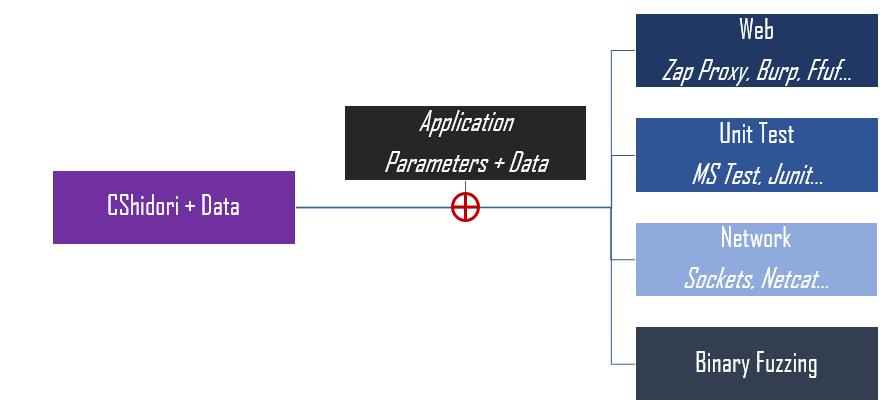
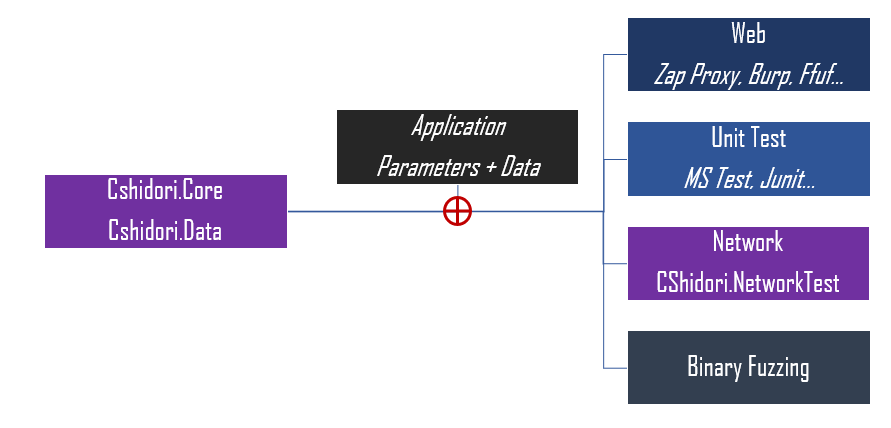
v 5.1
Fuzzer (beta)

Changed region(s): [[0.0303, 0.0311, 1.0, 0.9641], [0.7576, 0.3732, 0.9394, 0.4665]]

diff --git a/NetworkTest/TlsFuzz.cs b/NetworkTest/TlsFuzz.cs
@@ -1,0 +1,86 @@
+using System;
+using System.Collections.Generic;
+using System.Linq;
+using System.Net.Security;
+using System.Net.Sockets;
+using System.Security.Cryptography.X509Certificates;
+using System.Text;
+using System.Threading.Tasks;
+using System.IO;
+using System.Collections.ObjectModel;
+using System.Threading;
+using System.Text.RegularExpressions;
+
+namespace CShidori.NetworkTest
+{
+    public class TlsFuzz
+    {
+        public static async void TlsFuzzAsync(string File, string Ip, string Port, string data)
+        {
+            while (true)
+            {
+                try
+                {
+                    await SslOneReq(File, Ip, Port, data);
+                }
+                catch
+                {
+                    Thread.Sleep(1000);
+                }
+
+            }
+                
+        }
+
+
+        public static async Task SslOneReq(string File, string Ip, string Port, string data)
+            {
+            Guid uuid;
+            TcpClient client = new TcpClient(Ip, int.Parse(Port));
+            var stream = client.GetStream();
+            SslStream sslStream = new SslStream(stream, false, new RemoteCertificateValidationCallback(CertificateValidationCallback));
+            sslStream.AuthenticateAsClient("client", null, System.Security.Authentication.SslProtocols.Tls12, false);
+
+            string req = System.IO.File.ReadAllText(File);
+            string rsp = string.Empty;
+
+            uuid = Guid.NewGuid();
+            Core.Mutation mut = new Core.Mutation(1, req, data);               
+            foreach( string str in mut.Output) // Convert string[] mut.Output to string str
+            {
+                sendMsg(str, sslStream);
+                rsp = readMsg(sslStream, client);
+                int n = 0;
+                while( rsp == string.Empty)
+                {
+                    rsp = readMsg(sslStream, client);                   
+                    if(n >= 1024) { break;  }
+                    n += 1;
+                }
+                //Console.WriteLine("{0}: {1}: {2}",uuid, str, rsp) ;
+                new Core.DataLoggerWriter(uuid, str, rsp);
+
+            }
+            sslStream.Close();
+            client.Close();
+
+        }
+
+
+        public static bool CertificateValidationCallback(object sender, X509Certificate certificate, X509Chain chain, SslPolicyErrors sslPolicyErrors)
+        {
+            return true;
+        }
+
+        public static string readMsg(SslStream sslStream, TcpClient client)
+        {
+            byte[] buffer = new byte[client.ReceiveBufferSize];
+            int bytesRead = sslStream.Read(buffer, 0, client.ReceiveBufferSize);
+            return Encoding.UTF8.GetString(buffer, 0, bytesRead);
+        }
+        public static void sendMsg(string message, SslStream sslStream)
+        {
+            sslStream.Write(Encoding.UTF8.GetBytes(message), 0, Encoding.UTF8.GetBytes(message).Length);
+        }
+    }
+}

diff --git a/NetworkTest/TcpFuzz.cs b/NetworkTest/TcpFuzz.cs
@@ -1,0 +1,79 @@
+using System;
+using System.Collections.Generic;
+using System.Linq;
+using System.Net.Security;
+using System.Net.Sockets;
+using System.Security.Cryptography.X509Certificates;
+using System.Text;
+using System.Threading.Tasks;
+using System.IO;
+using System.Collections.ObjectModel;
+using System.Threading;
+using System.Text.RegularExpressions;
+
+namespace CShidori.NetworkTest
+{
+    internal class TcpFuzz
+    {
+        public static async void TcpFuzzAsync(string File, string Ip, string Port, string data)
+        {
+            while (true)
+            {
+                try
+                {
+                    await SendOneReq(File, Ip, Port, data);
+                }
+                catch
+                {
+                    Thread.Sleep(1000);
+                }
+
+            }
+
+        }
+
+
+        public static async Task SendOneReq(string File, string Ip, string Port, string data)
+        {
+            Guid uuid;
+            TcpClient client = new TcpClient(Ip, int.Parse(Port));
+            var stream = client.GetStream();
+
+            string req = System.IO.File.ReadAllText(File);
+            string rsp = string.Empty;
+
+            uuid = Guid.NewGuid();
+            Core.Mutation mut = new Core.Mutation(1, req, data);
+            foreach (string str in mut.Output) // Convert string[] mut.Output to string str
+            {
+                sendMsg(str, stream);
+                rsp = readMsg(stream);
+                int n = 0;
+                while (true)
+                {
+                    rsp += readMsg(stream);
+                    if (n >= 4096) { break; }
+                    n += 1;
+                }
+                Console.WriteLine("{0}:\n{1}\n---\n{2}", uuid, str, rsp);
+                new Core.DataLoggerWriter(uuid, str, rsp);
+
+            }
+            client.Close();
+
+        }
+
+
+        public static string readMsg(Stream stream)
+        {
+            byte[] buffer = new byte[4096];
+            int bytesRead = stream.Read(buffer, 0, buffer.Length);
+            return Encoding.UTF8.GetString(buffer, 0, bytesRead);
+        }
+        public static void sendMsg(string message, Stream stream)
+        {
+
+            stream.Write(Encoding.UTF8.GetBytes(message), 0, Encoding.UTF8.GetBytes(message).Length);
+        }
+    }
+}

diff --git a/Program.cs b/Program.cs
@@ -39,7 +39,8 @@ namespace CShidori
 
             var rootCommand = new RootCommand{m,i,p, o,d};
 
-            rootCommand.Description = @"CShidori : A C# Thousand Birds Payloads Generator
+            rootCommand.Description = @"
+CShidori : A C# Thousand Birds Payloads Generator
 README: https://github.com/Aif4thah/CShidori
 License: GPL-3.0
 Disclaimer: Usage of this tool for attacking targets without prior mutual consent is illegal. It is the end user's responsibility to obey all applicable local, state and federal laws. We assume no liability and are not responsible for any misuse or damage caused by this site. This tools is provided 'as is' without warranty of any kind.";
@@ -49,6 +50,14 @@ Disclaimer: Usage of this tool for attacking targets without prior mutual consen
 
                 switch (m)
                 {
+                    case "tls":
+                        NetworkTest.TlsFuzz.TlsFuzzAsync(o, i, p, d);
+                        break;
+
+                    case "tcp":
+                        NetworkTest.TcpFuzz.TcpFuzzAsync(o, i, p, d);
+                        break;
+
                     case "gen":
                         BadStrings data = new BadStrings(d);
                         Console.WriteLine(String.Join("\n", data.Output));
@@ -92,7 +101,7 @@ Disclaimer: Usage of this tool for attacking targets without prior mutual consen
                         break;
 
                     case "mst":
-                        new MsTestTemplate(p, i);
+                        new UnitTest.MsTestTemplate(p, i);
                         break;
 
                     case "xss":
@@ -104,7 +113,6 @@ Disclaimer: Usage of this tool for attacking targets without prior mutual consen
             }, m,i,p,o,d);
 
             rootCommand.Invoke(args);
-
 
         }
     }

diff --git a/Core/Mutation.cs b/Core/Mutation.cs
@@ -22,8 +22,12 @@ namespace CShidori.Core
             {
                 while (n >= 1)
                 {
-                    if (n%2 == 0){ this.Output.Add(randombc(bss)); }
-                    else{ this.Output.Add(bitflip()); }               
+                    var rand = new Random();
+                    int r = rand.Next(2);
+
+                    if (r%2 == 0){ this.Output.Add(randombc(bss)); }
+                    else{ this.Output.Add(bitflip()); } 
+                    
                     n -= 1;
                 }
             }
@@ -36,7 +40,7 @@ namespace CShidori.Core
            
             int randvalue = rand.Next(this.Input.Length);
             int randbc = rand.Next(bss.Count -1);         
-            //Console.WriteLine("randvalue {0}, randbc: {1}, Input: {2}", randvalue, randbc, this.Input);
+            //Console.WriteLine("[randombc] randvalue {0}, randbc: {1}, Input: {2}", randvalue, randbc, this.Input);
 
             StringBuilder sb = new StringBuilder(this.Input);
             sb.Remove(randvalue, 1);
@@ -52,8 +56,9 @@ namespace CShidori.Core
             var rand = new Random();
             int randvalue = rand.Next(bytes.Length);
             int randbit = rand.Next(biteW.Length);
+            //Console.WriteLine("[bitflip] Input: {0}, randbc: {1}", bytes[randvalue], biteW[randbit]);
 
-            try{ bytes[randvalue] += biteW[randbit]; }
+            try { bytes[randvalue] += biteW[randbit]; }
             catch{ bytes[randvalue] -= biteW[randbit]; }
 
             return Encoding.UTF8.GetString(bytes) ;

diff --git a/Core/DataLogger.cs b/Core/DataLogger.cs
@@ -1,0 +1,29 @@
+using System;
+using System.IO;
+using System.Collections.Generic;
+using System.Linq;
+using System.Text;
+using System.Threading.Tasks;
+using System.Text.Json;
+using System.Text.Json.Serialization;
+
+namespace CShidori.Core
+{
+    public class DataLogger
+    {
+        public Guid uuid { get; set; }
+        public string request { get; set; }
+        public string response { get; set; }
+    }
+
+    public class DataLoggerWriter
+    {
+        public DataLoggerWriter( Guid u, string req, string rsp)
+        {
+            var data = new DataLogger{ uuid = u, request = req, response = rsp };
+            string jsonStr = JsonSerializer.Serialize(data);
+            File.AppendAllText(@"Log\CShidori-log.json", jsonStr + "\n");
+        }
+
+    }
+}

diff --git a/UnitTest/MsTestTemplate.cs b/UnitTest/MsTestTemplate.cs
@@ -4,7 +4,7 @@ using System.Linq;
 using System.Text;
 using System.Threading.Tasks;
 
-namespace CShidori.Core
+namespace CShidori.UnitTest
 {
     public class MsTestTemplate
     {
@@ -16,7 +16,7 @@ namespace CShidori.Core
         {
             this.function = functionWithParam; //ex: function(string test1, string test2)
             this.inject = paramToInject;
-            List<string> MsTest = new DataLoader().Dataloader("MsTestTemplate");
+            List<string> MsTest = new Core.DataLoader().Dataloader("MsTestTemplate");
             foreach(string l in MsTest)
             Console.WriteLine(l.Replace("%", this.inject).Replace("§",this.function));
 

diff --git a/Core/DataLoader.cs b/Core/DataLoader.cs
@@ -1,4 +1,5 @@
 using System;
+using System.IO;
 using System.Collections.Generic;
 using System.Linq;
 using System.Text;
@@ -35,7 +36,7 @@ namespace CShidori.Core
                 IEnumerable<string> FileNames = from f in FileList where f.EndsWith(s) select f;
                 foreach (string FileName in FileNames)
                 {
-                    lines = System.IO.File.ReadAllLines(FileName);
+                    lines = File.ReadAllLines(FileName);
                     foreach (string line in lines)
                         results.Add(line);
                 }

diff --git a/README.md b/README.md
@@ -1,6 +1,6 @@
 # CShidori
 
-**Get Data To Fuzz Your App**
+**Get Data and Fuzz Your App**
 
 ![](Intro.png)
 
@@ -22,9 +22,14 @@ Usage of all tools on this site for attacking targets without prior mutual conse
 * Taisen: [Website](https://taisen.fr)
 
 
-## Supported modes and payloads
+## Fuzzer and Data
 
-### Modes 
+### Fuzzer
+
+* TLS Sockets (including HTTPS and other SSL/TLS encapsulated protocols)
+* TCP Sockets (TCP layer and OSI 5,6,7 protocols, including HTTP )
+
+### Data Generation Modes 
 * Mutation
 * XSS
 * JSON
@@ -42,10 +47,30 @@ Usage of all tools on this site for attacking targets without prior mutual conse
 * Strings (default)
 * DotNet
 * Java
+* C
 * Angular
 * JavaScript
 
-## Usage and examples
+## Mutation Fuzzing
+
+### TLS sockets
+
+put your request in a text file (for HTTPS use Zap/Burp "copy to file")
+
+```powershell
+.\CShidori.exe -m tls -o ..\..\..\..\..\..\testing\ZAP-Post-req.raw -i 127.0.0.1 -p 443
+```
+
+### TCP Sockets
+
+put your request in a text file (for HTTP use Zap/Burp "copy to file")
+
+```powershell
+.\CShidori.exe -m tcp -o ..\..\..\..\..\..\testing\burp.req -i 127.0.0.1 -p 80
+```
+
+
+## Data Generation
 
 ### Mutation
 

diff --git a/Roadmap.md b/Roadmap.md
@@ -1,8 +1,10 @@
 ## Roadmap
 
-* improve payloads / data loader class:
-	* create object with payload type/target and options to chose them
-	* Use Linq
+* improve Net Tests
+	* assert
 
 * improve Unit Tests
+	* Build
 	* assert
+
+* interpret fuzz results
